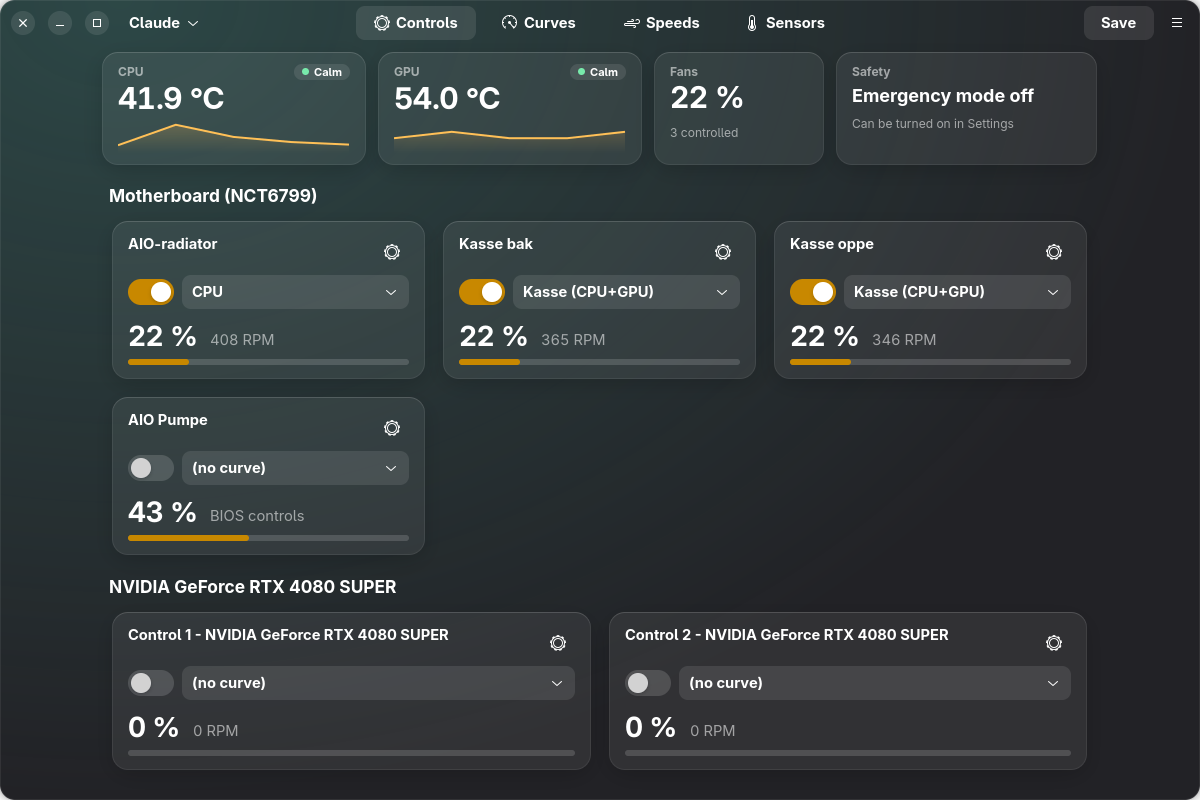
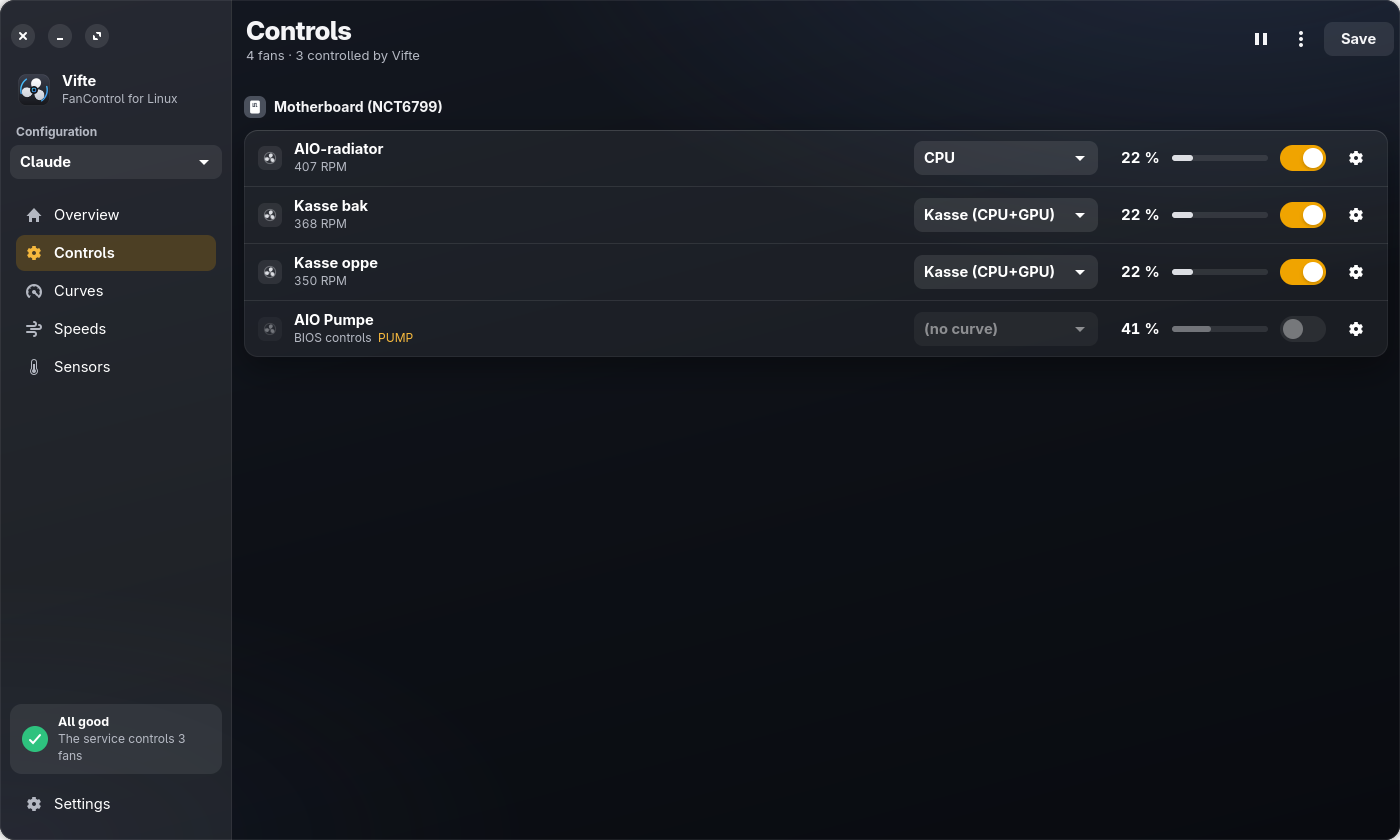
README: new screenshots and text for the 2.0 design

diff --git a/README.md b/README.md
@@ -4,8 +4,8 @@
 
 <p align="center">
   <picture>
-    <source media="(prefers-color-scheme: dark)" srcset="docs/screenshots/curves-dark.png">
-    <img alt="Vifte showing fan curves for CPU, GPU, case fans and pump" src="docs/screenshots/curves-light.png" width="820">
+    <source media="(prefers-color-scheme: dark)" srcset="docs/screenshots/overview-dark.png">
+    <img alt="Vifte's overview: CPU, GPU, motherboard and storage temperatures, a 30-minute graph, fans and protection" src="docs/screenshots/overview-light.png" width="820">
   </picture>
 </p>
 
@@ -22,8 +22,8 @@ etc.), so configurations can be moved between Windows and Linux.
 * **Emergency mode**: above a set CPU/GPU temperature every controlled fan runs at 100 %.
 * **Sensor loss protection**: if a curve's sensor stops responding, its fans run at a safe speed instead
   of staying where they were.
-* **Optional temperature alerts** as desktop notifications, and a **30-minute history graph** on every
-  sensor card.
+* **Optional temperature alerts** as desktop notifications, and a **30-minute history graph** for every
+  sensor.
 * English, Norwegian, German, French and Spanish user interface.
 * No Wine, no .NET.
 
@@ -39,7 +39,7 @@ service, the tray icon, the safety features and the Claude integration.
 
 | Light | Dark |
 |---|---|
-| ![Curve editor, light theme](docs/screenshots/curve-editor-light.png) | ![Curve editor, dark theme](docs/screenshots/curve-editor-dark.png) |
+| ![Curves: list and curve editor, light theme](docs/screenshots/curves-light.png) | ![Curves: list and curve editor, dark theme](docs/screenshots/curves-dark.png) |
 | ![Fan controls, light theme](docs/screenshots/controls-light.png) | ![Fan controls, dark theme](docs/screenshots/controls-dark.png) |
 | ![Sensors with history graphs, light theme](docs/screenshots/sensors-light.png) | ![Sensors with history graphs, dark theme](docs/screenshots/sensors-dark.png) |
 | ![Safety settings and alerts, light theme](docs/screenshots/settings-light.png) | ![Safety settings and alerts, dark theme](docs/screenshots/settings-dark.png) |
@@ -192,23 +192,26 @@ Vifte keeps every field it doesn't know about, and writes the file in the same f
 step up/down, force apply, pairing with a speed sensor (manual or automatic), calibration (RPM table and
 start/stop), hide/show, rename.
 
-**Curves:** Graph (drag points; left click adds, right click removes), Linear, Flat, Mix
-(max/min/average/sum/subtract), Trigger, Sync, Auto. Hysteresis up/down, response time up/down, ignore
-hysteresis at min/max, one-way hysteresis (older files), RPM mode (requires calibration).
+**Curves:** Graph (drag points; left click adds, right click removes – or type the values into the points
+below the graph), Linear, Flat, Mix (max/min/average/sum/subtract), Trigger, Sync, Auto. Hysteresis
+up/down, response time up/down, ignore hysteresis at min/max, one-way hysteresis (older files), RPM mode
+(requires calibration). The **Curves** page lists the curves on the left (with search) and edits the
+selected one on the right.
 
 **Custom sensors:** Mix, time average, file (`.sensor`, first line = °C), offset.
 
-**Arrange cards and groups:** on the **Sensors** and **Speeds** pages, drag a card and drop it on another
-card in the same group to move it. To move a whole group (for example the graphics card), drag it by its
+**Arrange rows and groups:** on the **Sensors** and **Speeds** pages, drag a row and drop it on another
+row in the same group to move it. To move a whole group (for example the graphics card), drag it by its
 heading (⠿) and drop it on another group; the other groups move along. Dragging down places it after the
-group you drop on, dragging up places it before. Cards never move between groups. The page scrolls by
+group you drop on, dragging up places it before. Rows never move between groups. The page scrolls by
 itself when you drag near the top or bottom. The order is stored in the configuration (the order of the
 sensor lists, as in FanControl) when you save.
 
-**Overview and colour:** an overview at the top of the window shows the CPU, GPU, fans and safety at a
-glance, and a soft window tint follows the hotter of the CPU and GPU: cool when idle, warm under load, red
-in emergency mode. Both can be turned off under **Settings → General**. Motherboard outputs with no fan
-are shown as small labels instead of full cards.
+**Overview:** the first page shows the CPU, GPU, motherboard and storage temperatures, a graph of the CPU
+and GPU over the last 30 minutes, the fans, and the protection switches. The motherboard and storage cards
+have a ⋯ menu to choose the sensor, or to show the hottest drive or all drives. Motherboard outputs with no
+fan are shown as small labels instead of full rows. A soft window tint that follows the temperature can be
+turned on under **Settings → General**.
 
 **Names:** a speed sensor you haven't named is shown with the name of the fan it is paired with (for
 example *AIO Pump* instead of *Fan #7*). This is display only – the configuration file keeps its own names,
@@ -218,7 +221,7 @@ as on Windows – and can be turned off under **Settings → General → Speeds 
 fan speed cards, update interval, pause (BIOS takes over).
 
 **System tray:** a tray icon with a menu (show window, switch configuration, pause, quit) that can also
-show sensor values as numbers, like FanControl. Click the gear on a sensor card → **Show in system tray**.
+show sensor values as numbers, like FanControl. Click a sensor on the **Sensors** page → **Show in system tray**.
 The choice is stored in `TrayIcons` in the configuration, with the same colours as on Windows. While the
 tray icon is active, closing the window keeps Vifte in the tray. The icon starts at login (can be turned
 off under **Settings → General**). GNOME needs the *AppIndicator and KStatusNotifierItem Support*
@@ -237,7 +240,7 @@ the switch and the speed are under **Settings → Safety**.
 
 **AIO and other pumps:** Linux often exposes more fan headers than FanControl on Windows can control –
 including the pump header of an AIO or custom loop. Mark the pump so nothing else can touch it: click the
-gear on its card → **Pump and Claude → Type**:
+gear on its row on the **Controls** page → **Pump and Claude → Type**:
 * **Pump – automatic** – the pump or BIOS controls it (recommended, and right for pumps that regulate themselves):
   Vifte never writes to the header, even if a configuration enables it.
 * **Pump – fixed speed**, for pumps that follow the PWM signal: a fixed speed of at least 70 %, and 100 %
@@ -254,8 +257,8 @@ above its limit for 10 seconds, and not again until it has dropped 3 °C below i
 also get a notification when emergency mode starts or a sensor stops responding. Vifte must be running
 (for example in the system tray) for notifications to appear.
 
-**History graphs:** every sensor card shows a small graph of the last 30 minutes, with the lowest and
-highest value. Useful when tuning curves by hand.
+**History graphs:** every sensor shows a small graph of the last 30 minutes; hover over it for the lowest
+and highest value. Useful when tuning curves by hand.
 
 **Suspend and resume:** after the PC wakes from sleep or hibernation, Vifte takes the fans back by
 itself. Some hwmon drivers reset `pwm_enable` on resume, which silently hands the fans to the BIOS; Vifte
@@ -306,7 +309,7 @@ vifte uninstall [--purge]  uninstall (--purge also deletes the configurations)
 
 ## Differences from the Windows version
 
-* **Colours:** the accent colour follows the desktop. `PrimaryColor`/`SecondaryColor` are kept in the file.
+* **Colours:** Vifte uses its own colours (an orange accent). `PrimaryColor`/`SecondaryColor` are kept in the file.
 * **Plugins** for FanControl (.NET) can't be loaded. File sensors cover many of the same needs.
 * **NVIDIA:** as on Windows, 0 % hands control back to the card (zero-RPM mode); otherwise the minimum
   is 30 %.
